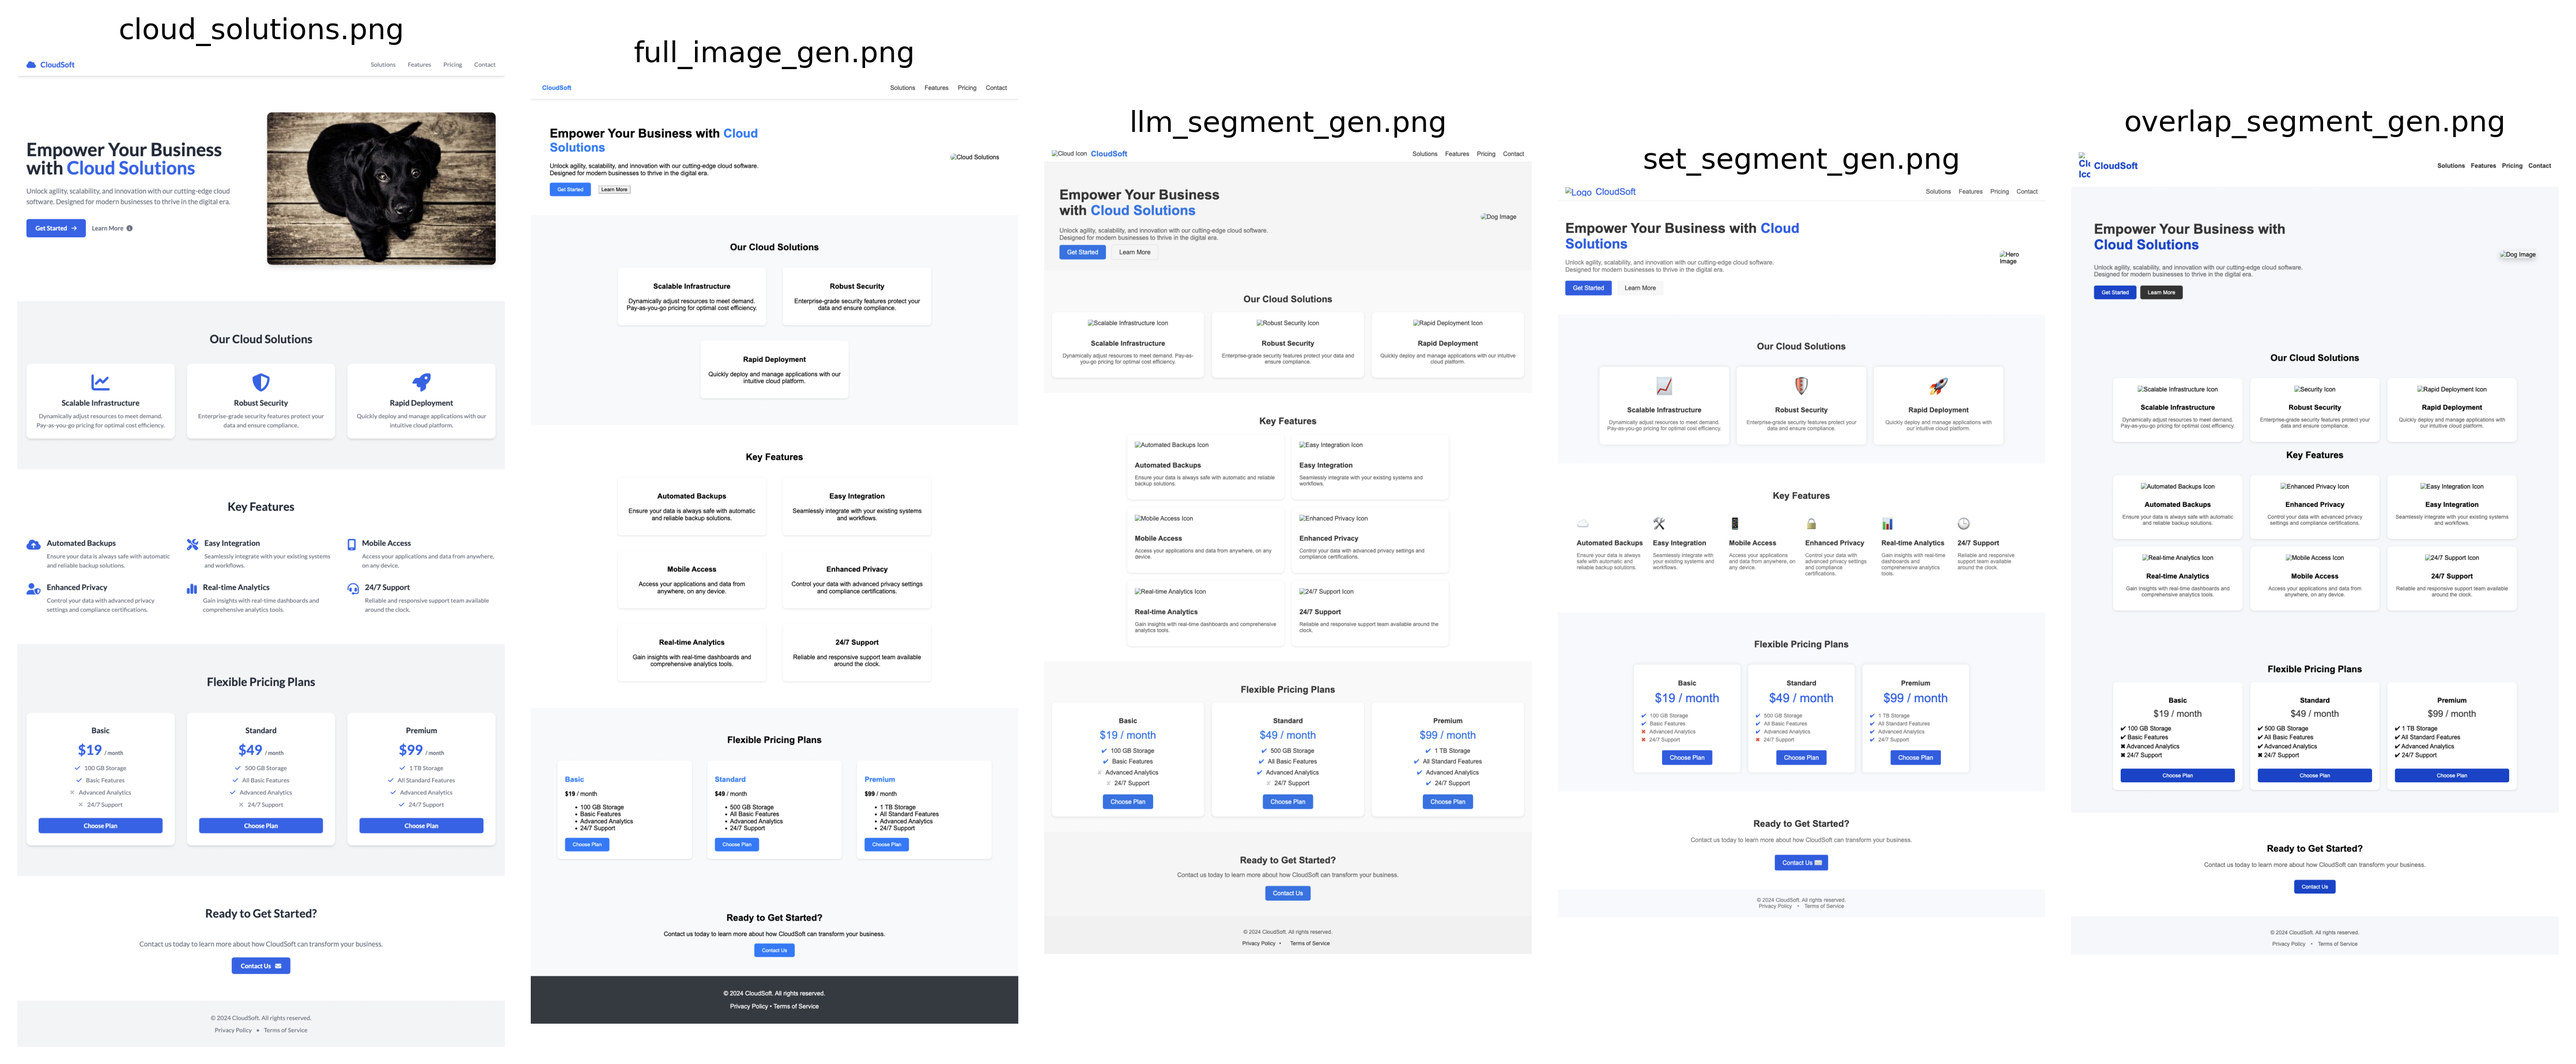
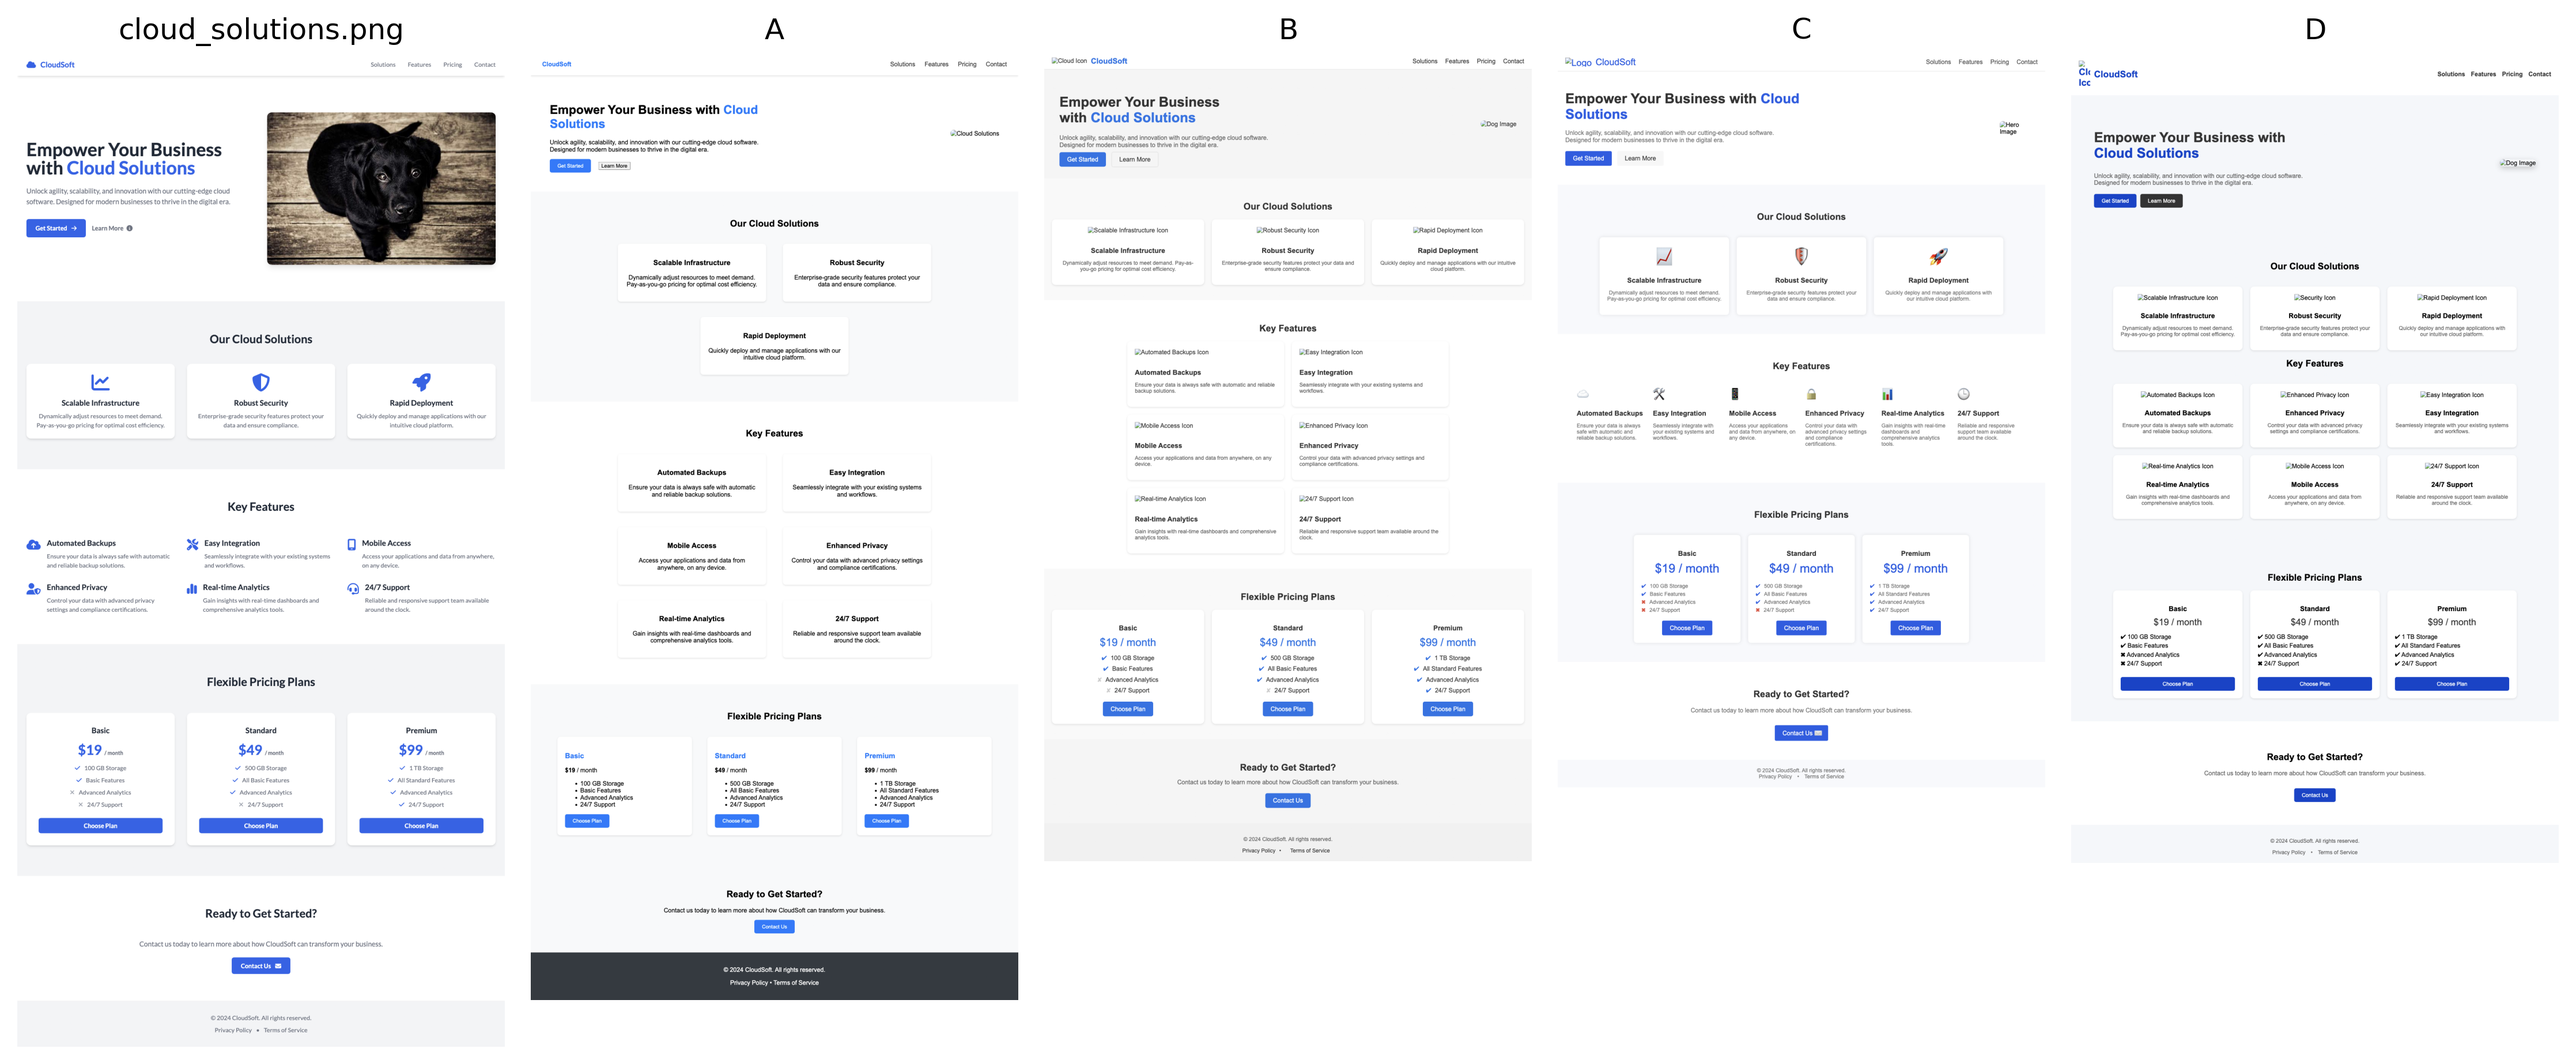
Removed labels from comparison images

diff --git a/view_images.py b/view_images.py
@@ -33,21 +33,24 @@ def display_images(project_name):
         img5 = mpimg.imread(image5_path)
 
         fig, axs = plt.subplots(1, 5, figsize=(15, 10))
+        # align all axes to the top of their subplot cell
+        for ax in axs:
+            ax.set_anchor('N')
         axs[0].imshow(img1)
         axs[0].axis("off")
         axs[0].set_title(f"{project_name}.png")
         axs[1].imshow(img2)
         axs[1].axis("off")
-        axs[1].set_title("full_image_gen.png")
+        axs[1].set_title("A")
         axs[2].imshow(img3)
         axs[2].axis("off")
-        axs[2].set_title("llm_segment_gen.png")
+        axs[2].set_title("B")
         axs[3].imshow(img4)
         axs[3].axis("off")
-        axs[3].set_title("set_segment_gen.png")
+        axs[3].set_title("C")
         axs[4].imshow(img5)
         axs[4].axis("off")
-        axs[4].set_title("overlap_segment_gen.png")
+        axs[4].set_title("D")
         plt.tight_layout()
 
         # Create comparisons directory if it doesn't exist
